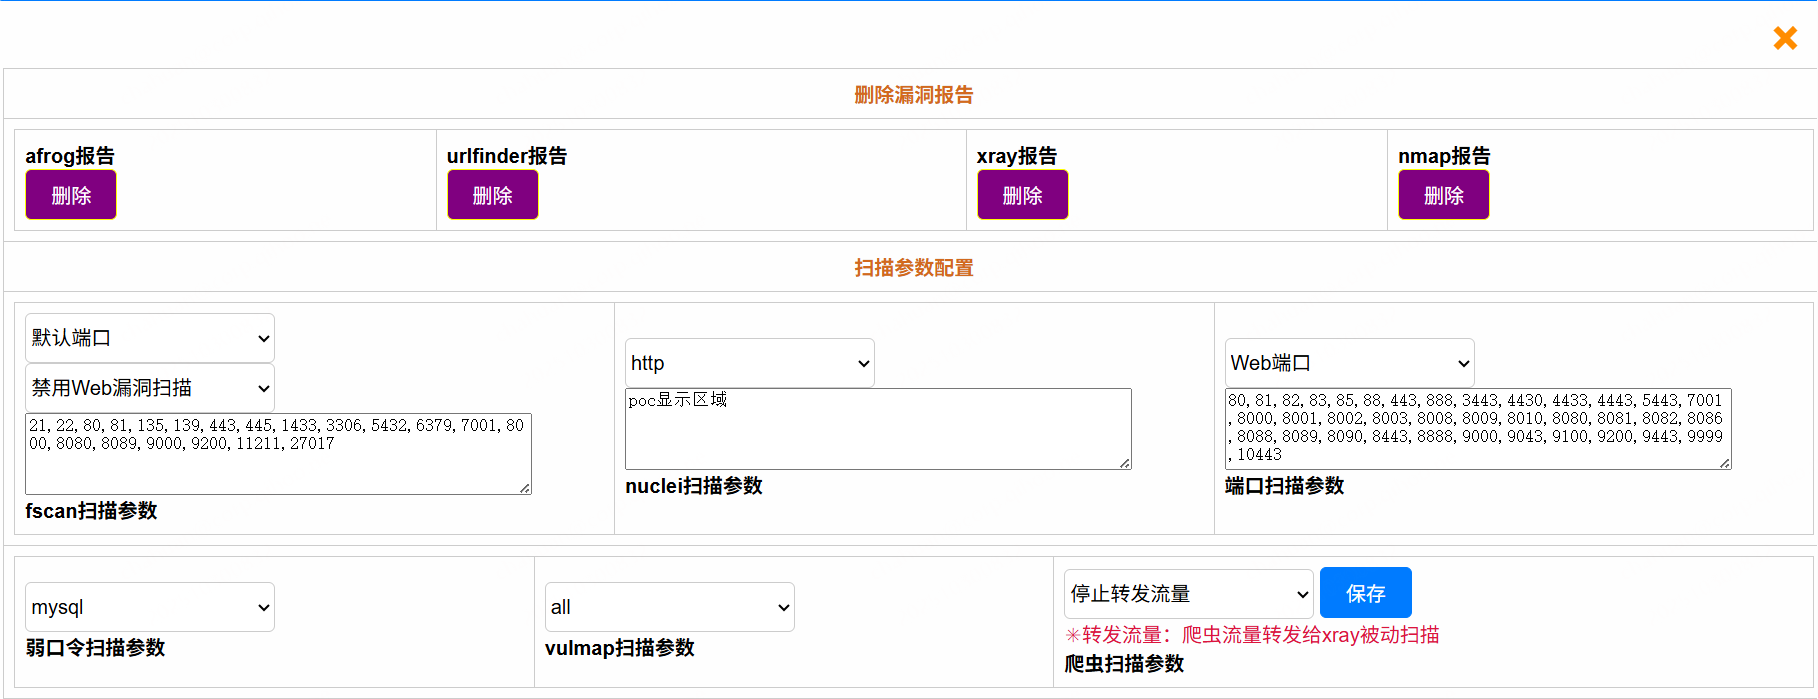
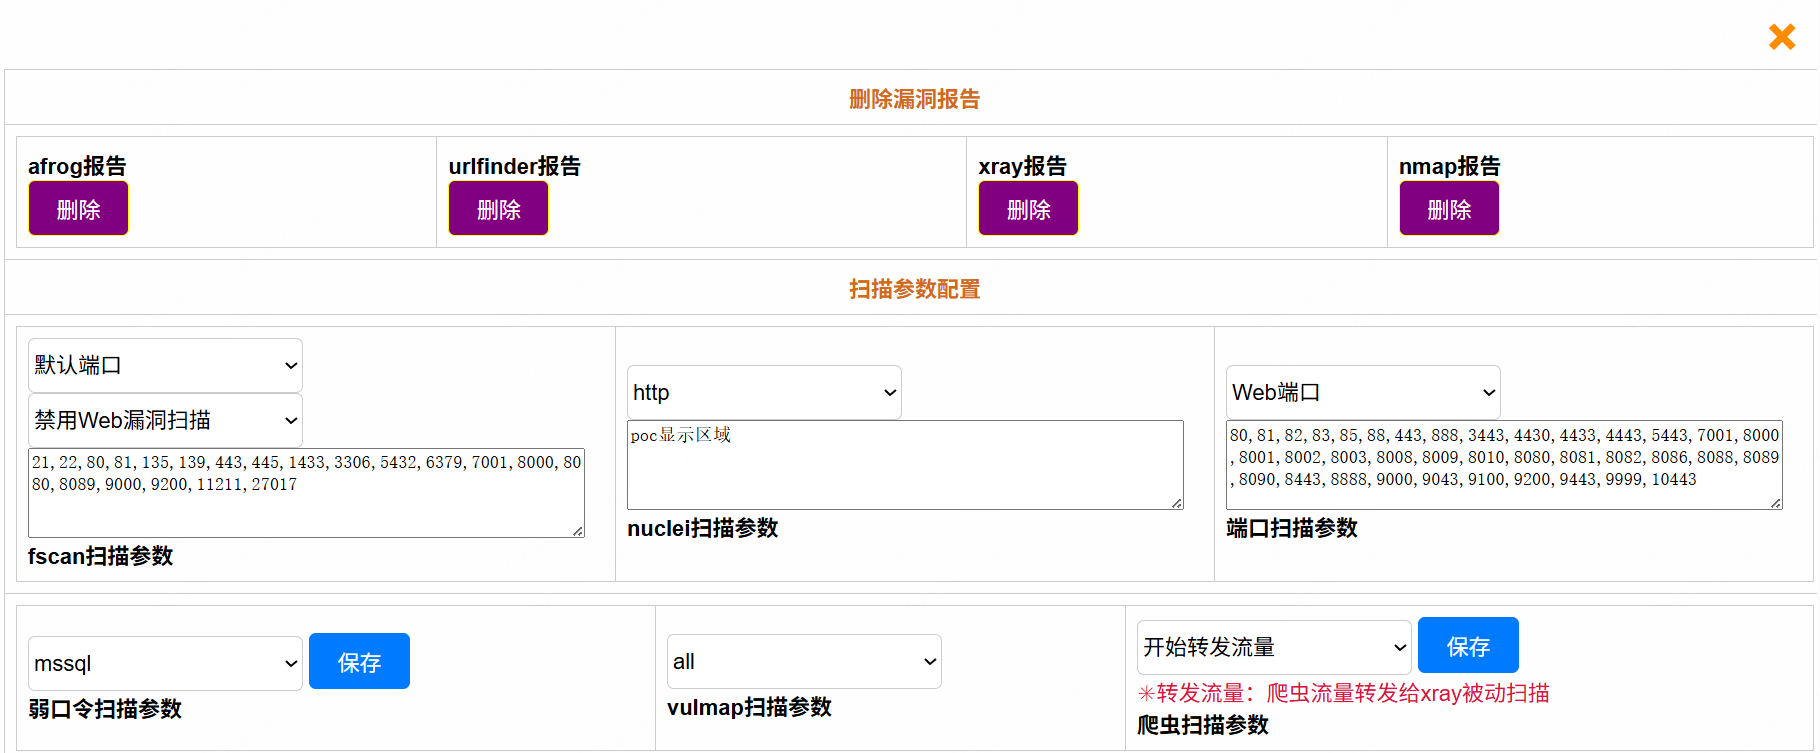
系统优化

diff --git a/static/js/common.js b/static/js/common.js
@@ -645,6 +645,23 @@ function startscanconfigpagefunc() {
                 sel.value = '2'; 
             }
 
+            // 弱口令扫描配置
+            const weekpwdsel = document.querySelector('select[name="hydrapart"]');
+            if (info.weekpwd_scan_part === '1'){
+                 weekpwdsel.value = '1'; }
+            else if (info.weekpwd_scan_part === '2'){
+                weekpwdsel.value = '2'; 
+            }
+            else if (info.weekpwd_scan_part === '3'){
+                weekpwdsel.value = '3'; 
+            }
+            else if (info.weekpwd_scan_part === '4'){
+                weekpwdsel.value = '4'; 
+            }
+            else{
+                weekpwdsel.value = '5'; 
+            }
+
         },
         error: function () {
             const statusElement = document.getElementById('jndistatusid1');
@@ -1858,6 +1875,8 @@ function stopverifychearlogfunc() {
 
 // 复核
 function comfirmclearlogfunc() {
+    var myModa23 = document.getElementById("myModa23");
+    myModa23.style.display = "block";
     var inputmodel1 = document.getElementById('inputmodel1').value;
     var inputmodel2 = document.getElementById('inputmodel2').value;
     var inputmodel3 = document.getElementById('inputmodel3').value;
@@ -1877,6 +1896,8 @@ function comfirmclearlogfunc() {
     var customizelimitid6 = document.getElementById('customizelimitid6').value;
     // 扫描器参数爬虫选项配置
     var pachongselectpart = $('select[name="pachongselectpart"]').val();
+    // 扫描器参数配置弱口令扫描参数配置
+    var hydrapart = $('select[name="hydrapart"]').val();
 
     $.ajax({
         url: '/comfirmclearloginterface/',
@@ -1898,12 +1919,15 @@ function comfirmclearlogfunc() {
             customizelimitid4: customizelimitid4,
             customizelimitid5: customizelimitid5,
             customizelimitid6: customizelimitid6,
-            pachongselectpart:pachongselectpart
+            pachongselectpart:pachongselectpart,
+            hydrapart:hydrapart
         },
         success: function (info) {
+            
             document.getElementById("filterruleid1").innerHTML = info.recheck_result;
         },
         error: function (info) {
+            
             document.getElementById("filterruleid1").innerHTML = "内部错误";
         },
         complete: function () {
@@ -3493,6 +3517,12 @@ function startjwtscanfunc() {
 function closevulnscan19() {
     var myModa21 = document.getElementById("myModa21");
     myModa21.style.display = "none";
+}
+
+// 关闭复核结果
+function closevulnscan20() {
+    var myModa23 = document.getElementById("myModa23");
+    myModa23.style.display = "none";
 }
 
 // 打开JNDI日志弹窗

diff --git a/templates/tanchuang.html b/templates/tanchuang.html
@@ -237,7 +237,7 @@
     <div class="modal-content1">
         <span class="close" onclick="stopscanconfigpagefunc()">&times;</span>
         <table border="1">
-            <span id="filterruleid1" style="color: red;font-size: 20px;"></span>
+            <!-- <span id="filterruleid1" style="color: red;font-size: 20px;"></span> -->
             <tr>
                 <td style="text-align:center;">
                     <strong style="color: chocolate;">删除漏洞报告</strong><br>
@@ -427,6 +427,7 @@ poc显示区域</textarea>
                                     <option value="4">redis</option>
                                     <option value="5">mssql</option>
                                 </select>
+                                <button class="button edit-button" onclick="startverifychearlogfunc('19')">保存</button>
                                 <br><strong>弱口令扫描参数</strong>
 
                             </td>
@@ -1070,6 +1071,18 @@ poc显示区域</textarea>
         <span class="close" onclick="closevulnscan19()">&times;</span>
         <h3>JWT爆破：</h3>
         <p id="jwtresultid4"></p>
+    </div>
+</div>
+
+
+<!-- 复核返回结果弹窗 -->
+<div id="myModa23" class="modal9">
+    <!-- 弹窗内容 -->
+    <div class="modal-content8">
+        <span class="close" onclick="closevulnscan20()">&times;</span>
+        <h3>复核结果：</h3>
+        <!-- <p id="vulnscan13"></p> -->
+        <span id="filterruleid1" style="color: red;font-size: 20px;"></span>
     </div>
 </div>
 

diff --git a/scan_main_web.py b/scan_main_web.py
@@ -4733,6 +4733,8 @@ def comfirmclearloginterface():
         customizelimitid6 = request.form['customizelimitid6']
         # 扫描器参数爬虫选项配置
         pachongselectpart = request.form['pachongselectpart']
+        # 弱口令扫描参数配置
+        hydrapart = request.form['hydrapart']
 
         if str(inputmodel1) == str(recheck_username) and str(inputmodel2) == str(recheck_password):
             if int(inputmodel3) == 1:
@@ -4810,6 +4812,10 @@ def comfirmclearloginterface():
                 print("扫描器爬虫流量转发选项配置")
                 basic.update_crawler_conf_lib(pachongselectpart,1)
                 recheck_result = "扫描器爬虫流量转发选项配置已生效"
+            elif int(inputmodel3) == 19:
+                print("弱口令扫描参数配置")
+                basic.update_crawler_conf_lib(hydrapart,2)
+                recheck_result = "弱口令扫描参数配置已生效"
             elif int(inputmodel3) ==11:
                 print("配置高危资产识别")
                 
@@ -5023,8 +5029,10 @@ def system_config_data():
             otx_remaining_num = 0
         else:
             otx_remaining_num = otx_remaining_num_1
-        # 获取扫描器配置爬虫流量转发部分
+        # 爬虫流量转发部分
         crawlerscan_part = basic.crawler_conf_lib(1)
+        # 弱口令扫描配置
+        weekpwd_scan_part = basic.crawler_conf_lib(2)
 
         message_json = {
             # 接口剩余额度
@@ -5047,7 +5055,8 @@ def system_config_data():
             # 资产校验状态
             "assets_jiaoyan_status":str(assets_jiaoyan_status),
             # 扫描器配置选项
-            "crawlerscan_part":str(crawlerscan_part)
+            "crawlerscan_part":str(crawlerscan_part),
+            "weekpwd_scan_part":str(weekpwd_scan_part)
         }
         return jsonify(message_json)
     else:

diff --git a/readme.md b/readme.md
@@ -109,8 +109,9 @@ https://github.com/huan-cdm/Surf-the-Internet-scientifically<br>
 <ul>
 <li>
 2025-10-30更新<br> 
-1.扫描器爬虫流量转发配置功能支持状态保存；<br>
-2.已知问题处理与优化；<br>
+1.扫描器爬虫流量转发配置功能状态保存；<br>
+2.扫描器弱口令扫描配置功能状态保存；<br>
+3.已知问题处理与优化；<br>
 </li>
 <li>
 2025-9-24更新<br> 
